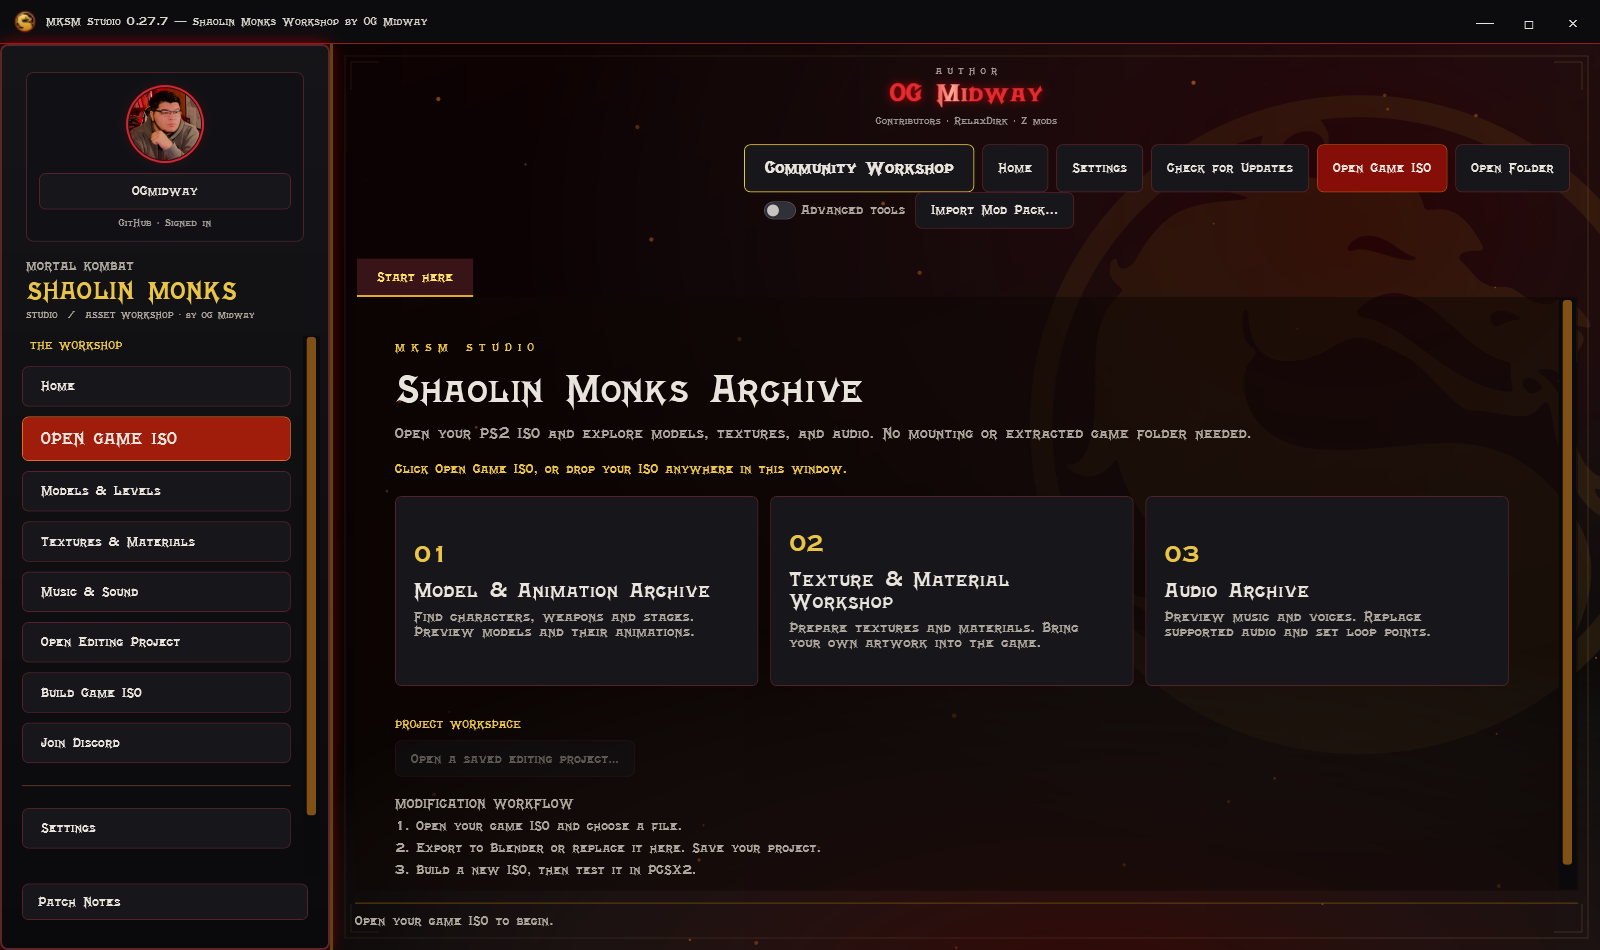
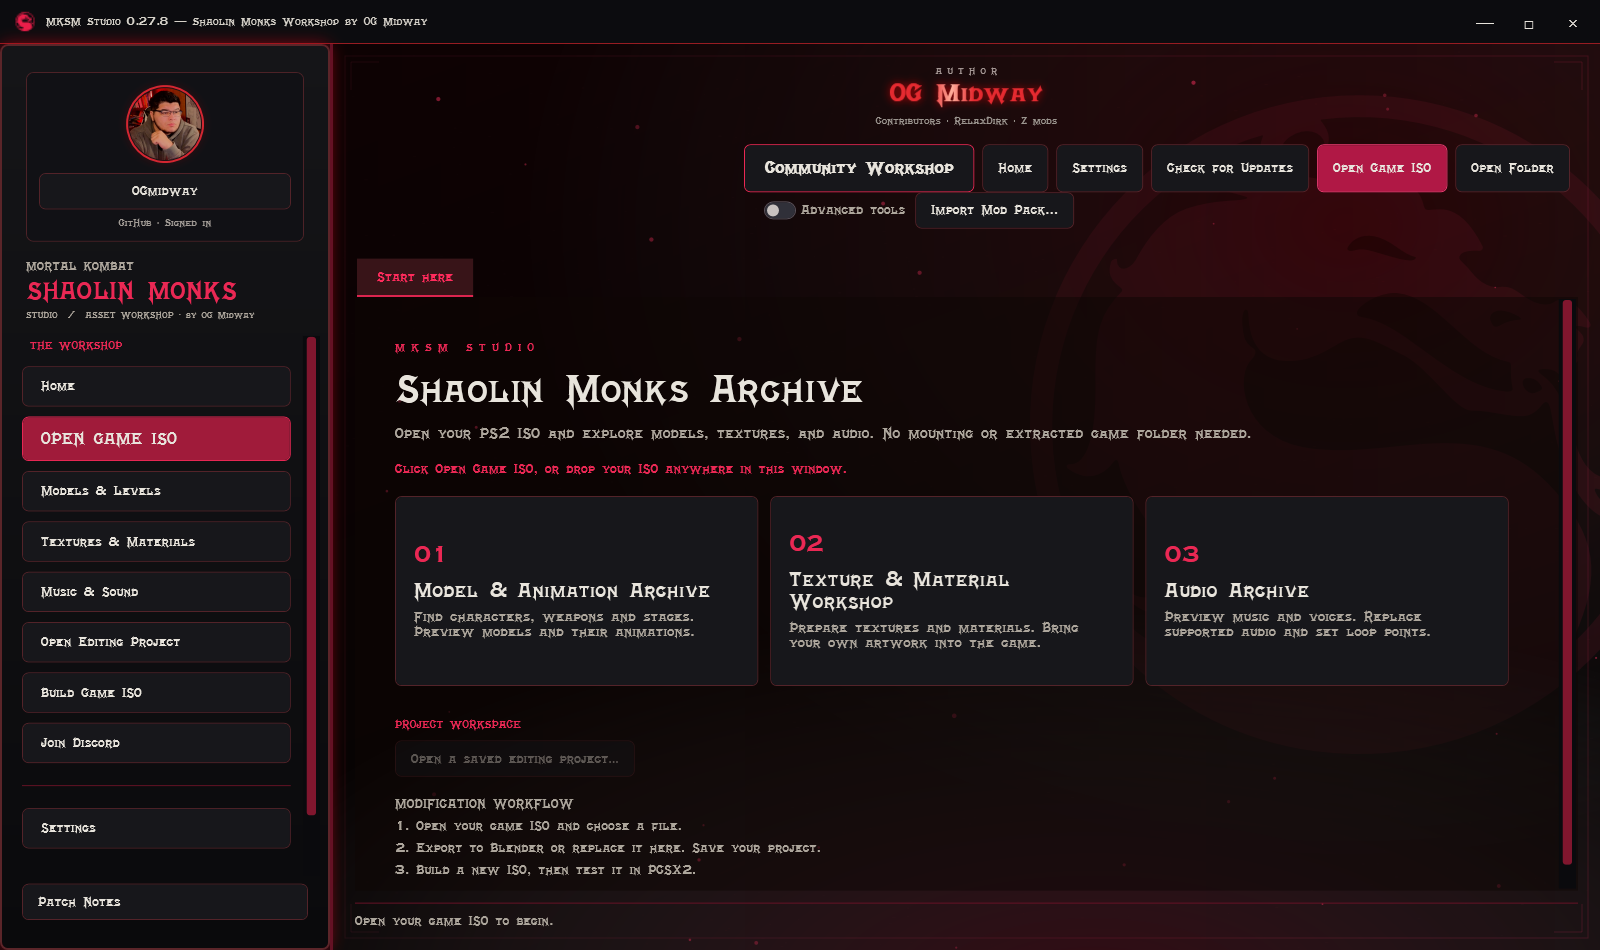
Release 0.27.8 crimson interface and Workshop download totals

diff --git a/README.md b/README.md
@@ -1,6 +1,6 @@
 <div align="center">
 
-<img src="assets/icon.png" width="96" alt="MKSM Studio gold dragon icon">
+<img src="assets/icon.png" width="96" alt="MKSM Studio crimson dragon icon">
 
 # Mortal Kombat Shaolin Monks Modding Tool by OG Midway
 
@@ -24,17 +24,15 @@ You do not need to mount or unpack the ISO to begin. You do need your own game f
 
 This is an independent, experimental modding tool. The best-tested workflows use the researched **USA PS2 revision**. Support for one resource or revision does not establish support for every version of the game.
 
-## 2. Current release: 0.27.7
+## 2. Current release: 0.27.8
 
 Clean red-and-black interface, integrated title bar, GitHub avatar, refreshed Workshop browsing and grouped Settings. Sidebar **Patch Notes** shows the latest update; green dragon indicators pulse for unread notes or available updates. Owner announcements appear once and can be reopened from the sidebar. Select your interface font under **Settings → Appearance → Typography**. Save, then reopen Studio to apply it.
 
-**Community Workshop:** browse character replacements, download them into your editing project, subscribe for version comparisons on refresh, and publish your own native character packages through GitHub. Creator uploads appear without an approval queue. OGmidway's authenticated owner account can remove any listing; other creators manage only their own. [Workshop guide](docs/COMMUNITY_WORKSHOP.md).
+**Community Workshop:** browse character replacements, download their files, subscribe for version comparisons on refresh, and publish your own native character packages through GitHub. Creator uploads appear without an approval queue. OGmidway's authenticated owner account can remove any listing; other creators manage only their own. [Workshop guide](docs/COMMUNITY_WORKSHOP.md).
 
 **Opening movie included:** the converted opening movie is bundled and starts on first launch. The default movie needs no ISO extraction or FFmpeg. Saved off/volume choices are preserved; selecting another movie previews it immediately.
 
 **An archive-focused MKSM interface:** aged-metal frames, bundled MK4 title lettering, responsive archive cards and automatic scaling on large windows. Home is available from the left navigation and the library. Instructions and file details keep a readable standard font.
-
-**Volume and menu feedback:** clear 0-100% sliders, larger handles, one-percent buttons and live background-volume preview. Automatic hover/select sounds play only on Home; Settings and asset views stay quiet. Join Discord is directly below Build game ISO.
 
 **Volume and menu feedback:** clear 0-100% sliders, larger handles, one-percent buttons and live background-volume preview. Automatic hover/select sounds play only on Home; Settings and asset views stay quiet. Join Discord is directly below Build game ISO.
 
@@ -46,9 +44,9 @@ Custom **SFD conversion requires FFmpeg**; MP4/WMV can be selected directly. The
 
 **Character memory fixes remain experimental research, not enabled in this release.** A successful Studio preview does not guarantee an oversized replacement will load in game. [Verified findings and remaining work](docs/ENGINE_RESEARCH.md).
 
-### Existing Blender workflow (Bridge 0.25.1)
+### Existing Blender workflow (Bridge 0.25.2)
 
-**New to character swaps? [Start with the simple Blender guide](docs/CHARACTER_START_HERE.md).** [Blender Bridge 0.25.1](https://github.com/OGmidway/Mortal-Kombat-Shaolin-Monks-Modding-Tool/releases/download/v0.25.6/MKSM-Blender-Bridge-0.25.1.zip) adds **Set up game textures (keep more detail)**. Automatic mode uses multiple original slots; choose two or three atlases if you want fewer textures. Original weights stay unchanged, and textures used by kept native meshes are protected. Install the add-on separately; The application is now 0.27.7.
+**New to character swaps? [Start with the simple Blender guide](docs/CHARACTER_START_HERE.md).** [Blender Bridge 0.25.2](https://github.com/OGmidway/Mortal-Kombat-Shaolin-Monks-Modding-Tool/releases/download/v0.27.8/MKSM-Blender-Bridge-0.25.2.zip) adds **Set up game textures (keep more detail)**. Automatic mode uses multiple original slots; choose two or three atlases if you want fewer textures. Original weights stay unchanged, and textures used by kept native meshes are protected. Install the add-on separately; The application is now 0.27.8.
 
 **New in Bridge 0.25.1:** optional **Clean weights on export**, plus **Preview cleaned weights on a copy** and a weight-change report. This handles triangles that touch more than three bones after topology changes. Originals stay untouched. A per-vertex removal limit prevents unexpectedly large changes; default 25%. This does not fix or bypass game memory limits. [Cleanup steps](docs/CHARACTER_START_HERE.md#reduced-polygons-or-changed-geometry).
 
@@ -152,3 +150,5 @@ Mortal Kombat and Shaolin Monks belong to their respective rights holders. This 
 Share multiple replacements in one download and apply them together before rebuilding. [Create and install a mod pack](docs/MOD_PACKS.md).
 
 Particle animation: **Settings → Appearance → Particle Frame Rate** supports Off, 15, 30 and 60 FPS (default 60). Movie playback uses its own frame rate and remains independent.
+
+Studio 0.27.8 uses crimson/pink accents and a red-and-black dragon icon. Workshop cards and details show the current version’s file-download count from GitHub; counts include uncached preview fetches and direct downloads, not unique people. Background video, audio and particle options remain available.

diff --git a/docs/PREVIOUS_BUILDS.md b/docs/PREVIOUS_BUILDS.md
@@ -2,7 +2,7 @@
 
 [Home](../README.md) · [Release notes](../CHANGELOG.md) · [Updates and recovery](UPDATES_AND_HELP.md) · [Roadmap](ROADMAP.md)
 
-**Current recommended version: [0.27.7](https://github.com/OGmidway/Mortal-Kombat-Shaolin-Monks-Modding-Tool/releases/tag/v0.27.7).** [Download latest](https://github.com/OGmidway/Mortal-Kombat-Shaolin-Monks-Modding-Tool/releases/latest).
+**Current recommended version: [0.27.8](https://github.com/OGmidway/Mortal-Kombat-Shaolin-Monks-Modding-Tool/releases/tag/v0.27.8).** [Download latest](https://github.com/OGmidway/Mortal-Kombat-Shaolin-Monks-Modding-Tool/releases/latest).
 
 This archive keeps superseded public builds easy to find. The downloads remain in their original GitHub releases; no application files or signatures are moved or rewritten. Start with the current version for normal use.
 
@@ -12,6 +12,7 @@ All rows below are previous builds, newest first. Dates are the original publica
 
 | Version / release notes | Published (UTC) | Main change | Windows download |
 |---|---|---|---|
+| [0.27.7](https://github.com/OGmidway/Mortal-Kombat-Shaolin-Monks-Modding-Tool/releases/tag/v0.27.7) | 2026-10-03 | See the linked release notes | [Windows ZIP](https://github.com/OGmidway/Mortal-Kombat-Shaolin-Monks-Modding-Tool/releases/download/v0.27.7/MKSM-Studio-0.27.7-win-x64.zip) |
 | [0.27.6](https://github.com/OGmidway/Mortal-Kombat-Shaolin-Monks-Modding-Tool/releases/tag/v0.27.6) | 2026-10-01 | See the linked release notes | [Windows ZIP](https://github.com/OGmidway/Mortal-Kombat-Shaolin-Monks-Modding-Tool/releases/download/v0.27.6/MKSM-Studio-0.27.6-win-x64.zip) |
 | [0.27.5](https://github.com/OGmidway/Mortal-Kombat-Shaolin-Monks-Modding-Tool/releases/tag/v0.27.5) | 2026-09-30 | See the linked release notes | [Windows ZIP](https://github.com/OGmidway/Mortal-Kombat-Shaolin-Monks-Modding-Tool/releases/download/v0.27.5/MKSM-Studio-0.27.5-win-x64.zip) |
 | [0.27.4](https://github.com/OGmidway/Mortal-Kombat-Shaolin-Monks-Modding-Tool/releases/tag/v0.27.4) | 2026-09-30 | See the linked release notes | [Windows ZIP](https://github.com/OGmidway/Mortal-Kombat-Shaolin-Monks-Modding-Tool/releases/download/v0.27.4/MKSM-Studio-0.27.4-win-x64.zip) |

diff --git a/docs/COMMUNITY_WORKSHOP.md b/docs/COMMUNITY_WORKSHOP.md
@@ -6,7 +6,7 @@
 
 1. Open Community Workshop at the top right. No game needs to be open.
 2. Use the GitHub account box to sign in. Studio opens GitHub and shows a code with Copy Code and Copy Link buttons. Authorize GitHub CLI in your browser.
-3. Click **Upload character** and choose `.glb`, `.bin`, `.pme2` or `.mksmcharacter`.
+3. Click **Upload Mod** and choose `.glb`, `.bin`, `.pme2` or `.mksmcharacter`.
 4. Enter a title and description. Add your author name and choose its glow color. You may include suggested model/texture IDs and game revision notes, but an ISO is not required.
 5. Optionally attach a texture BIN and a PNG/JPG picture. Click **Publish publicly**.
 
@@ -58,3 +58,9 @@ In the private source build, OG Midway's verified owner account can use **Publis
 New messages display once on the next launch, or within two minutes while the app is active and no editing dialog is open. Close the message after reading; its ID is saved. The sidebar button remains available to review it. Offline checks never block editing. A newer publication replaces the current announcement and gets a new notification ID.
 
 Use arrow keys to scroll message text, Enter or Space on Continue to dismiss, and Esc to go back. Settings uses Tab/Shift+Tab to move, Space to activate the focused control, and Enter to save.
+
+## File-download totals (Studio 0.27.8)
+
+Every mod card and detail page shows the main release file’s GitHub download count for its currently published version. Refresh reads release statistics in batches; results are cached for two minutes to reduce requests. Missing files, unavailable GitHub responses and rate limits show **Downloads unavailable** without blocking the listing or its download button.
+
+Counts include direct GitHub downloads and the first uncached file fetch used for a 3D preview. Copying a cached file again does not add a GitHub download. Cover images and companion textures are excluded. These are file-transfer totals, not unique people or lifetime totals across previous versions of a mod.

diff --git a/CHANGELOG.md b/CHANGELOG.md
@@ -1,3 +1,17 @@
+# MKSM Studio 0.27.8 — Crimson Interface & Workshop Downloads
+
+- Gold interface accents replaced with vibrant crimson and pink highlights. Open Game ISO now matches the theme; neutral text stays readable.
+- New red-and-black dragon icon for the executable, title bar and taskbar.
+- Consistent headings, tabs, scrollbars, message frames, buttons and borders.
+- Community Workshop cards and mod details show GitHub file-download totals for the currently published version. Counts are cached briefly; unavailable statistics never block browsing or downloads.
+- Download totals count the main mod file only, including direct downloads and uncached 3D-preview fetches. Companion textures and cover images are excluded. Counts are not unique users or lifetime totals across older versions.
+- Background movie, audio controls, particles with Off / 15 / 30 / 60 FPS, once-only announcements and manual review remain available.
+- Public and private source builds retain separate signed update channels and installation replacement.
+
+Live online-user counting is deferred. Experimental engine/memory patches are not included.
+
+---
+
 # MKSM Studio 0.27.7 — Interface & Community Refresh
 
 - OG Midway is the sole author. RelaxDirk and Z mods are credited separately as contributors.
